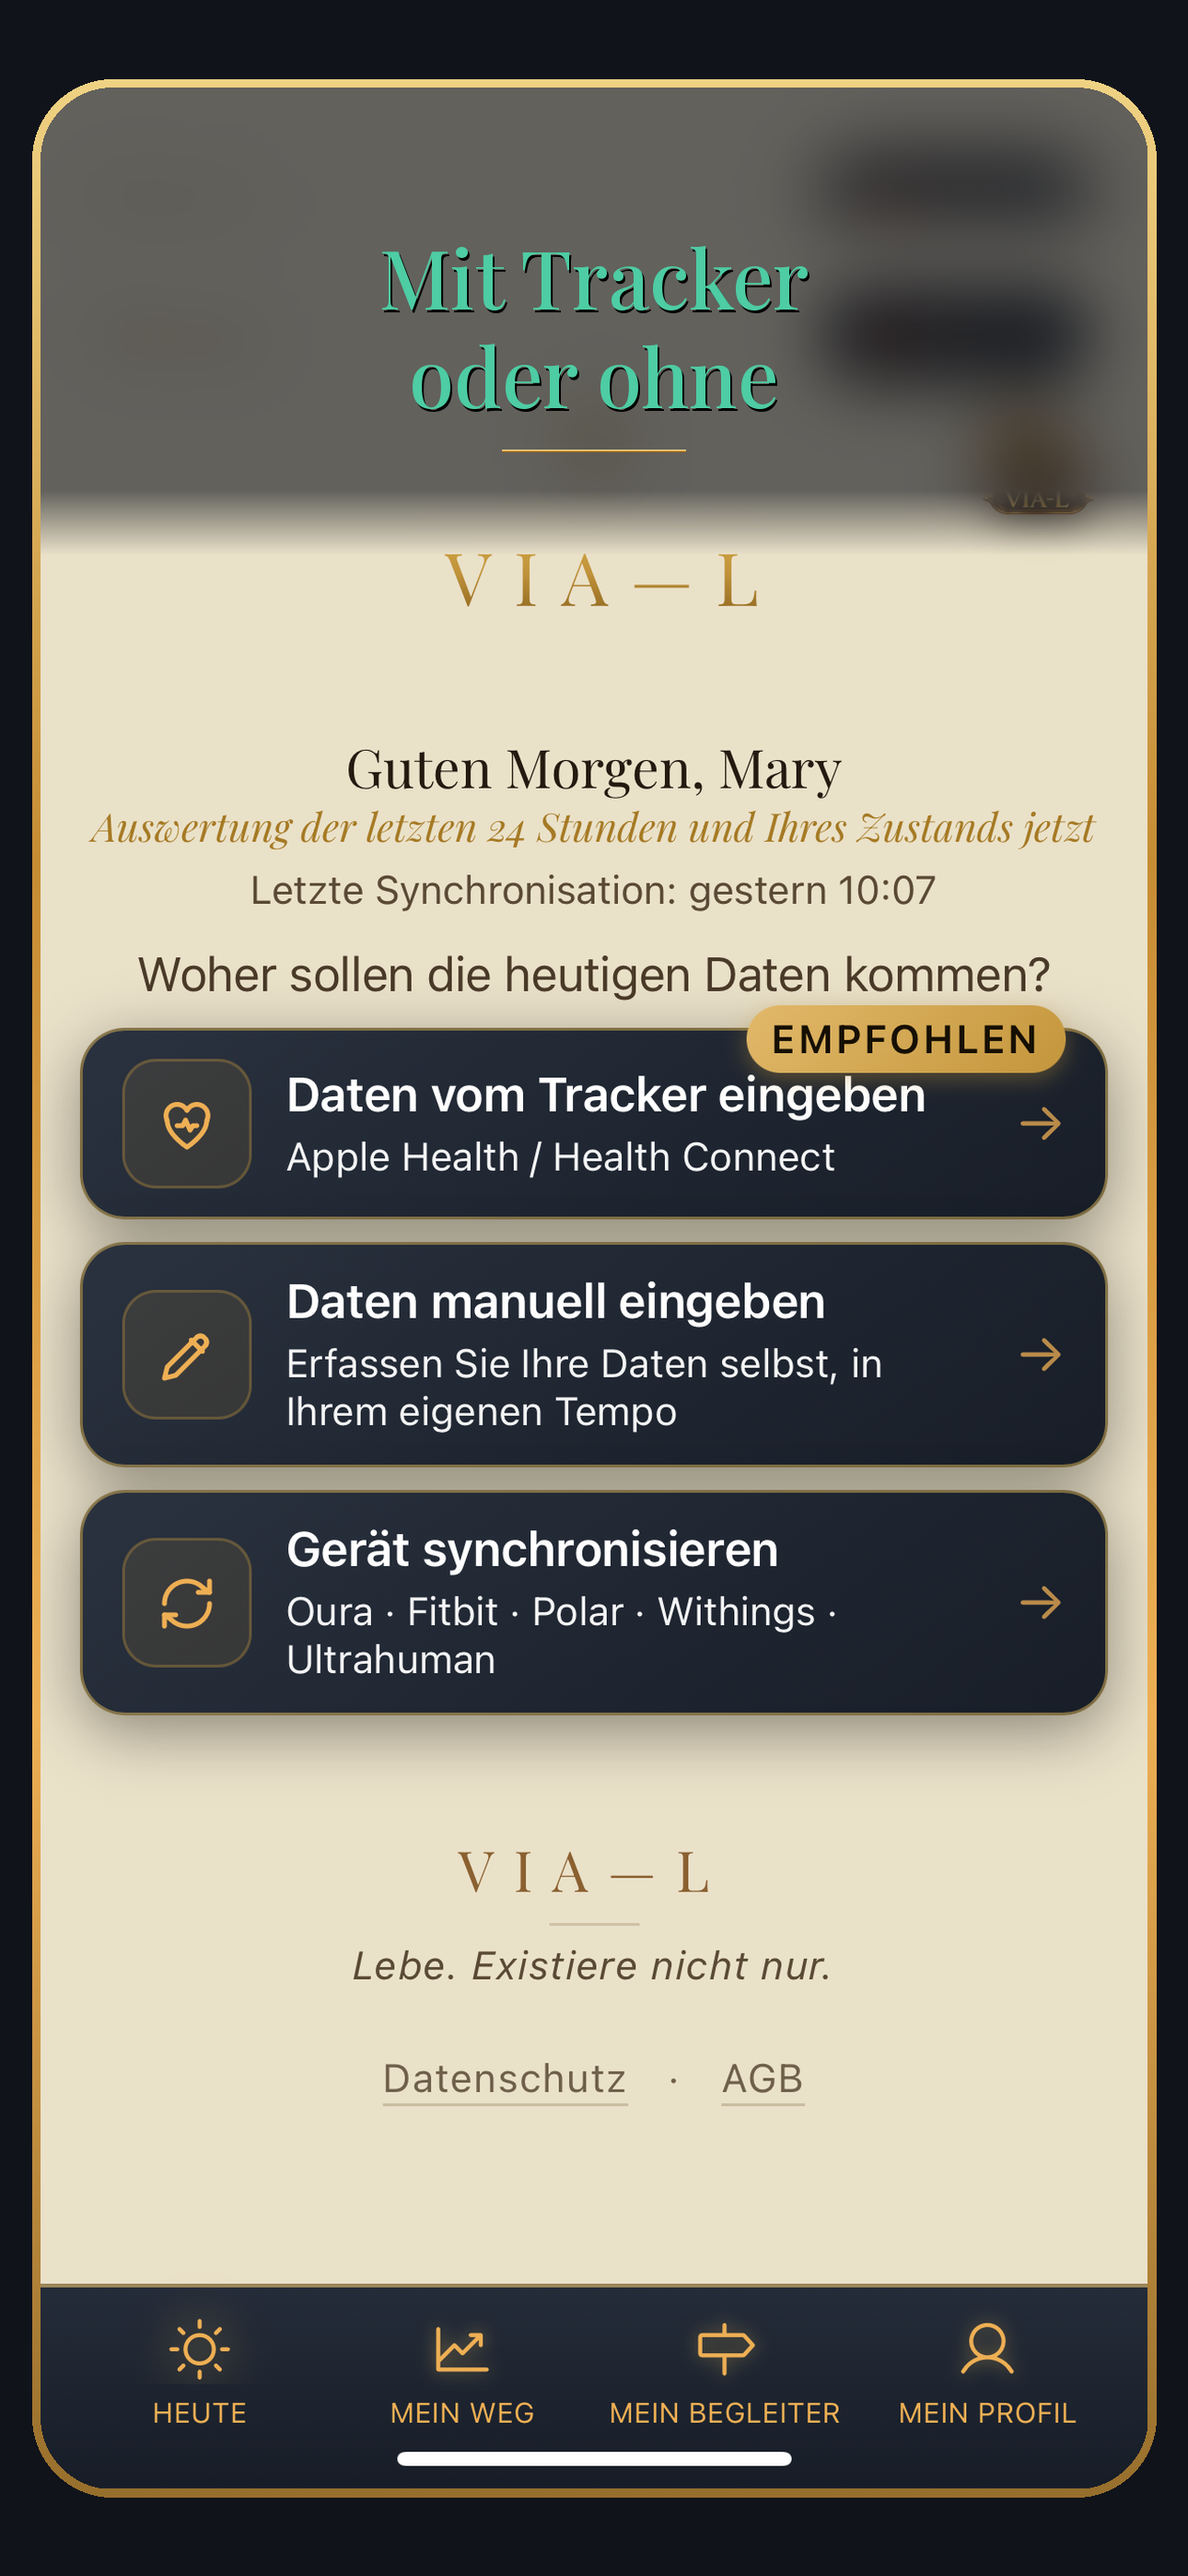
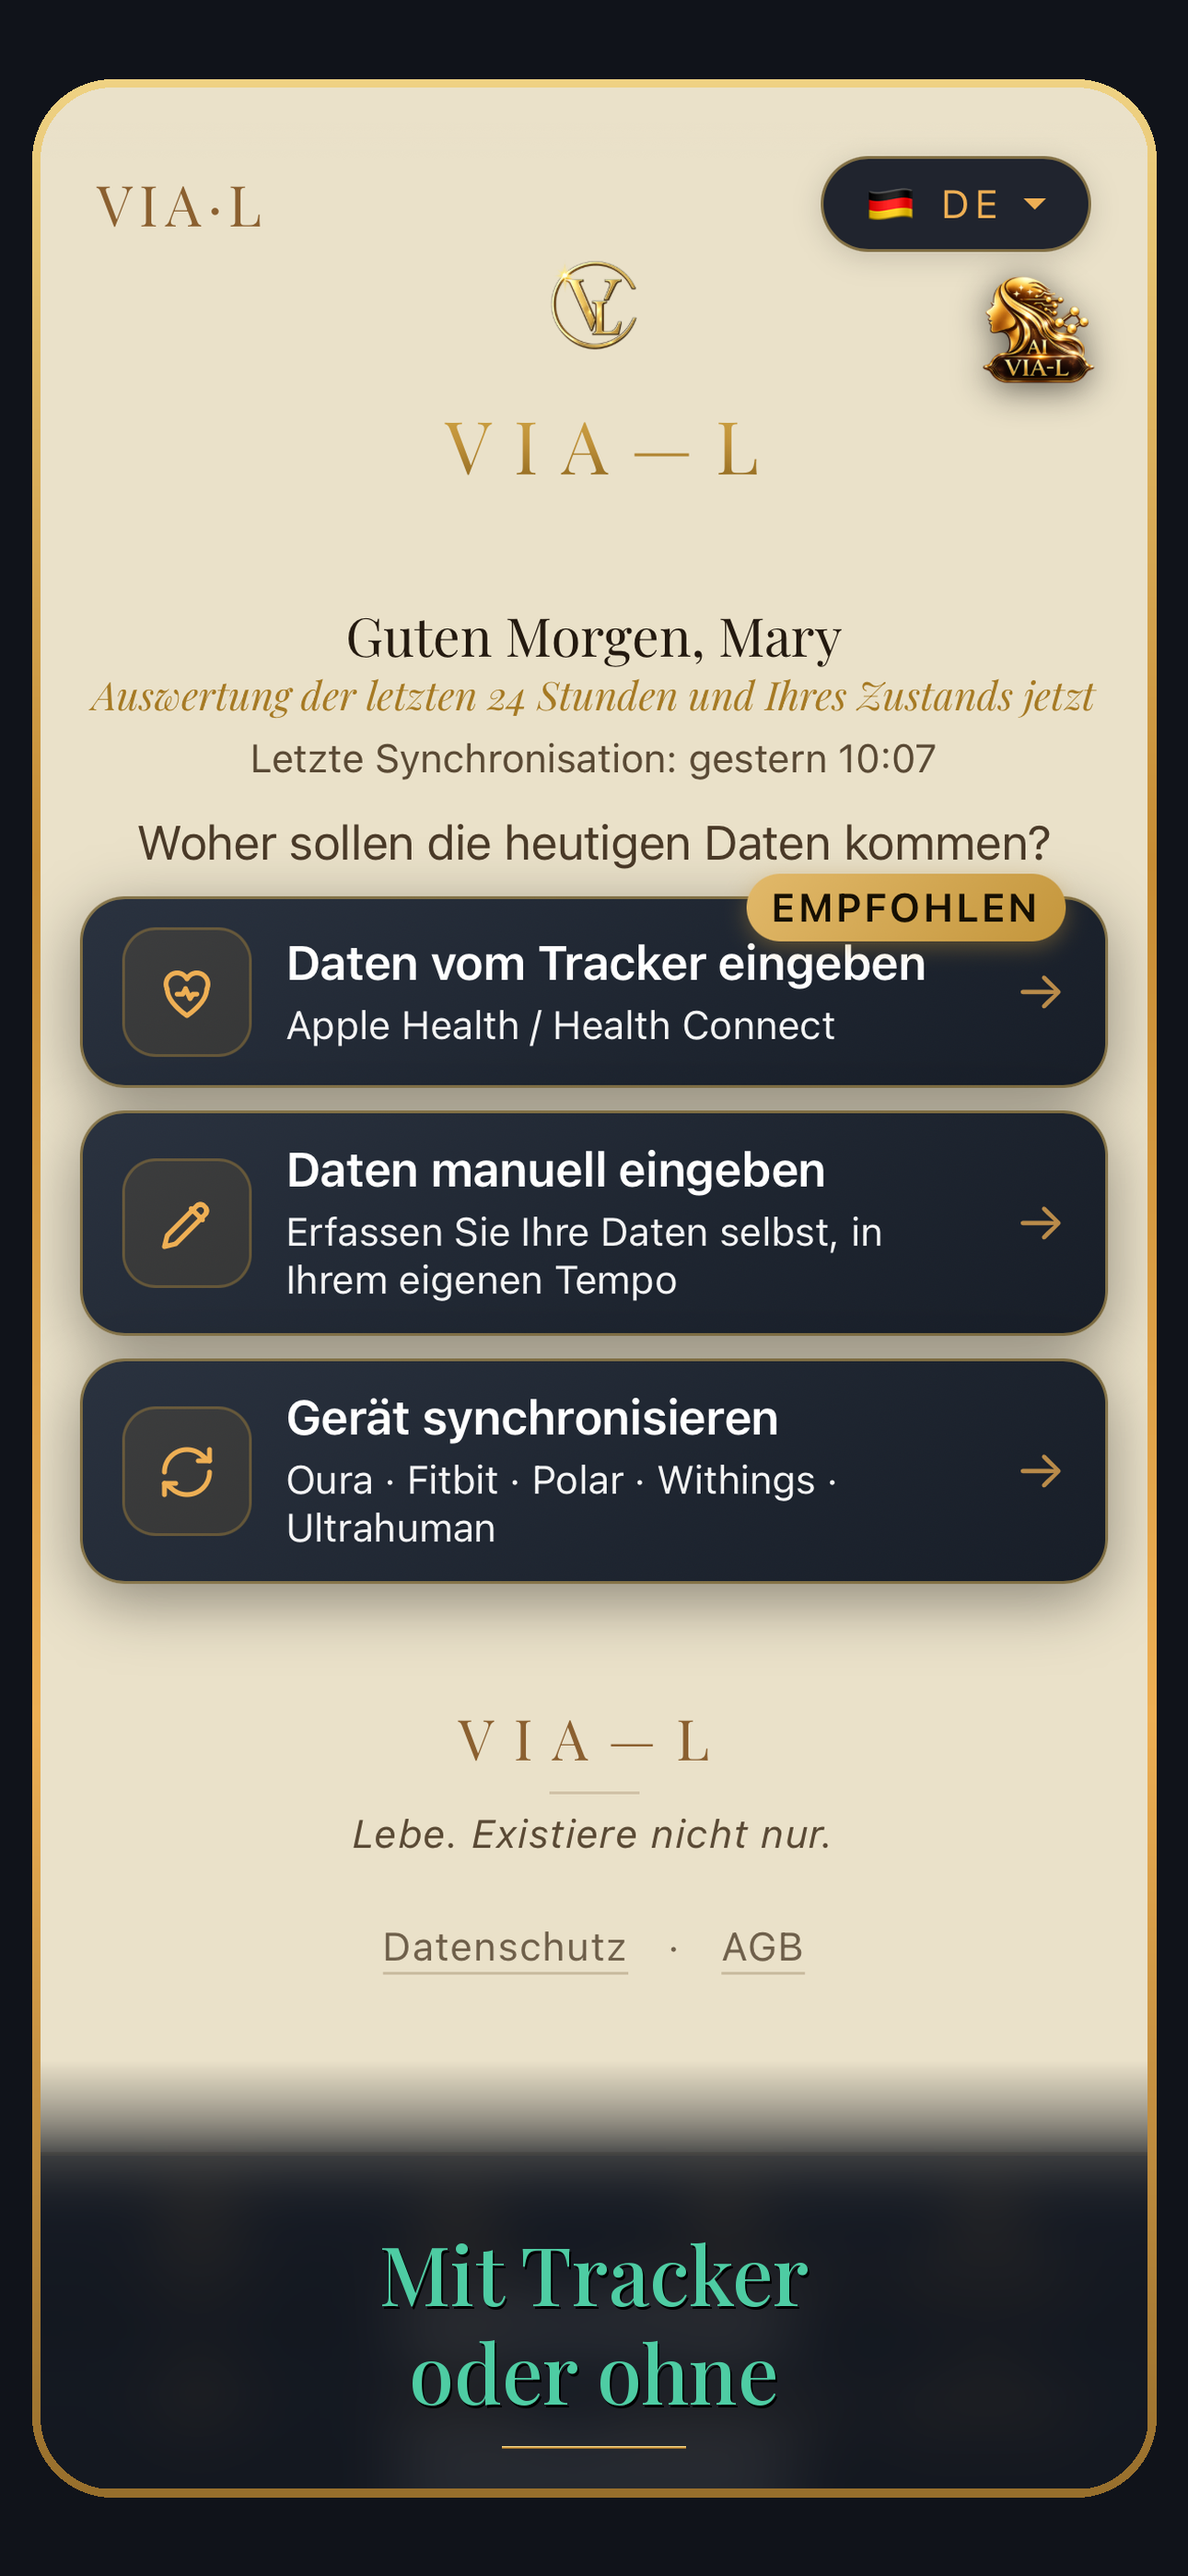
App Store de: 01 и 04 — туман с подписью снизу (там свободнее), часы срезаны; скрипт: режим status-bottom

diff --git a/app/scripts/compose-store-shot.py b/app/scripts/compose-store-shot.py
@@ -1,6 +1,7 @@
 # Кадр App Store 1290×2796: снимок экрана в золотой рамке, подпись — поверх размытой полосы самого снимка
 # (сверху или снизу — где на экране нет важного), бирюзой приложения (--ok #4ECCA3), Playfair Display.
-#   python3 compose-store-shot.py <снимок> "Строка 1\nСтрока 2" <out.png> top|bottom|status [высота_полосы]   (status — туман на месте строки с часами)
+#   python3 compose-store-shot.py <снимок> "Строка 1\nСтрока 2" <out.png> top|bottom|status|status-bottom [высота_полосы]
+#   status — туман с подписью на месте строки с часами; status-bottom — часы срезаны, туман снизу (где свободнее)
 # Шрифт: SHOT_FONT=/путь/PlayfairDisplay[wght].ttf (github.com/google/fonts, ofl/playfairdisplay).
 # Apple рамки и подписи на скриншотах не запрещает; нельзя только показывать то, чего в приложении нет.
 import sys, os
@@ -34,6 +35,12 @@ def compose(src, caption, out, where='top', band=None, patch=None):
         new = Image.new('RGB', im.size)                    # содержимое сдвигается вверх и остаётся целиком
         new.paste(content.crop((0, 0, im.width, SB)).filter(ImageFilter.GaussianBlur(20)), (0, 0))
         new.paste(content, (0, SB)); im = new; where = 'top'; fade = 70; status_sb = SB
+    elif where == 'status-bottom':         # то же, но туман с подписью снизу — когда свободнее низ экрана:
+        SB = 140                           # строку состояния срезаем, экран поднимается к верху рамки,
+        content = im.crop((0, SB, im.width, im.height))   # освободившийся низ уходит под туман
+        new = Image.new('RGB', im.size); new.paste(content, (0, 0))
+        new.paste(content.crop((0, content.height - SB, im.width, content.height)), (0, content.height))
+        im = new; where = 'bottom'; status_sb = 0
     else: status_sb = 0
     sw = W - 2 * M; sh = round(im.height * sw / im.width); top = (H - sh) // 2
     im = im.resize((sw, sh), Image.LANCZOS)
